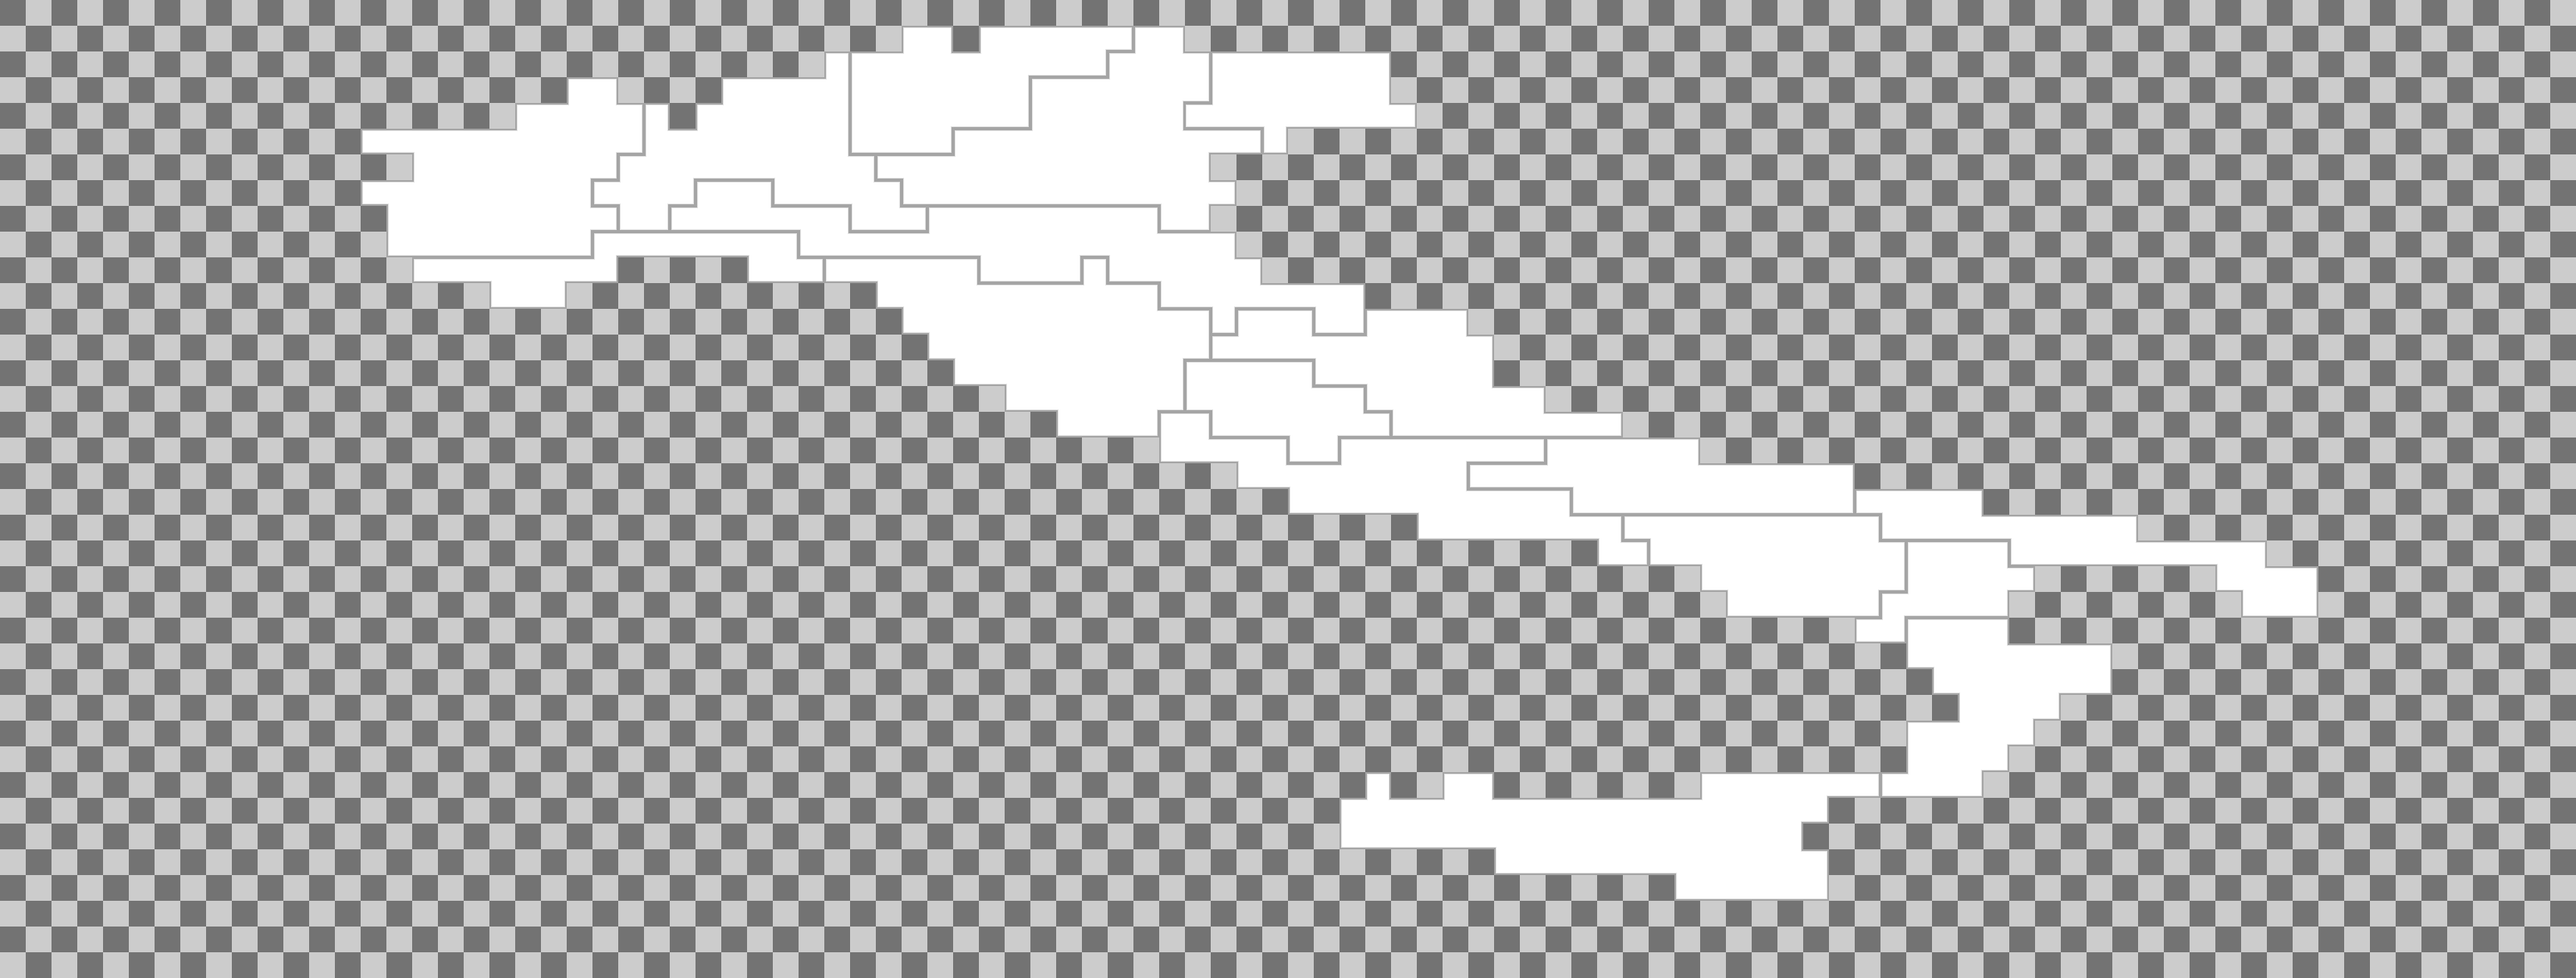
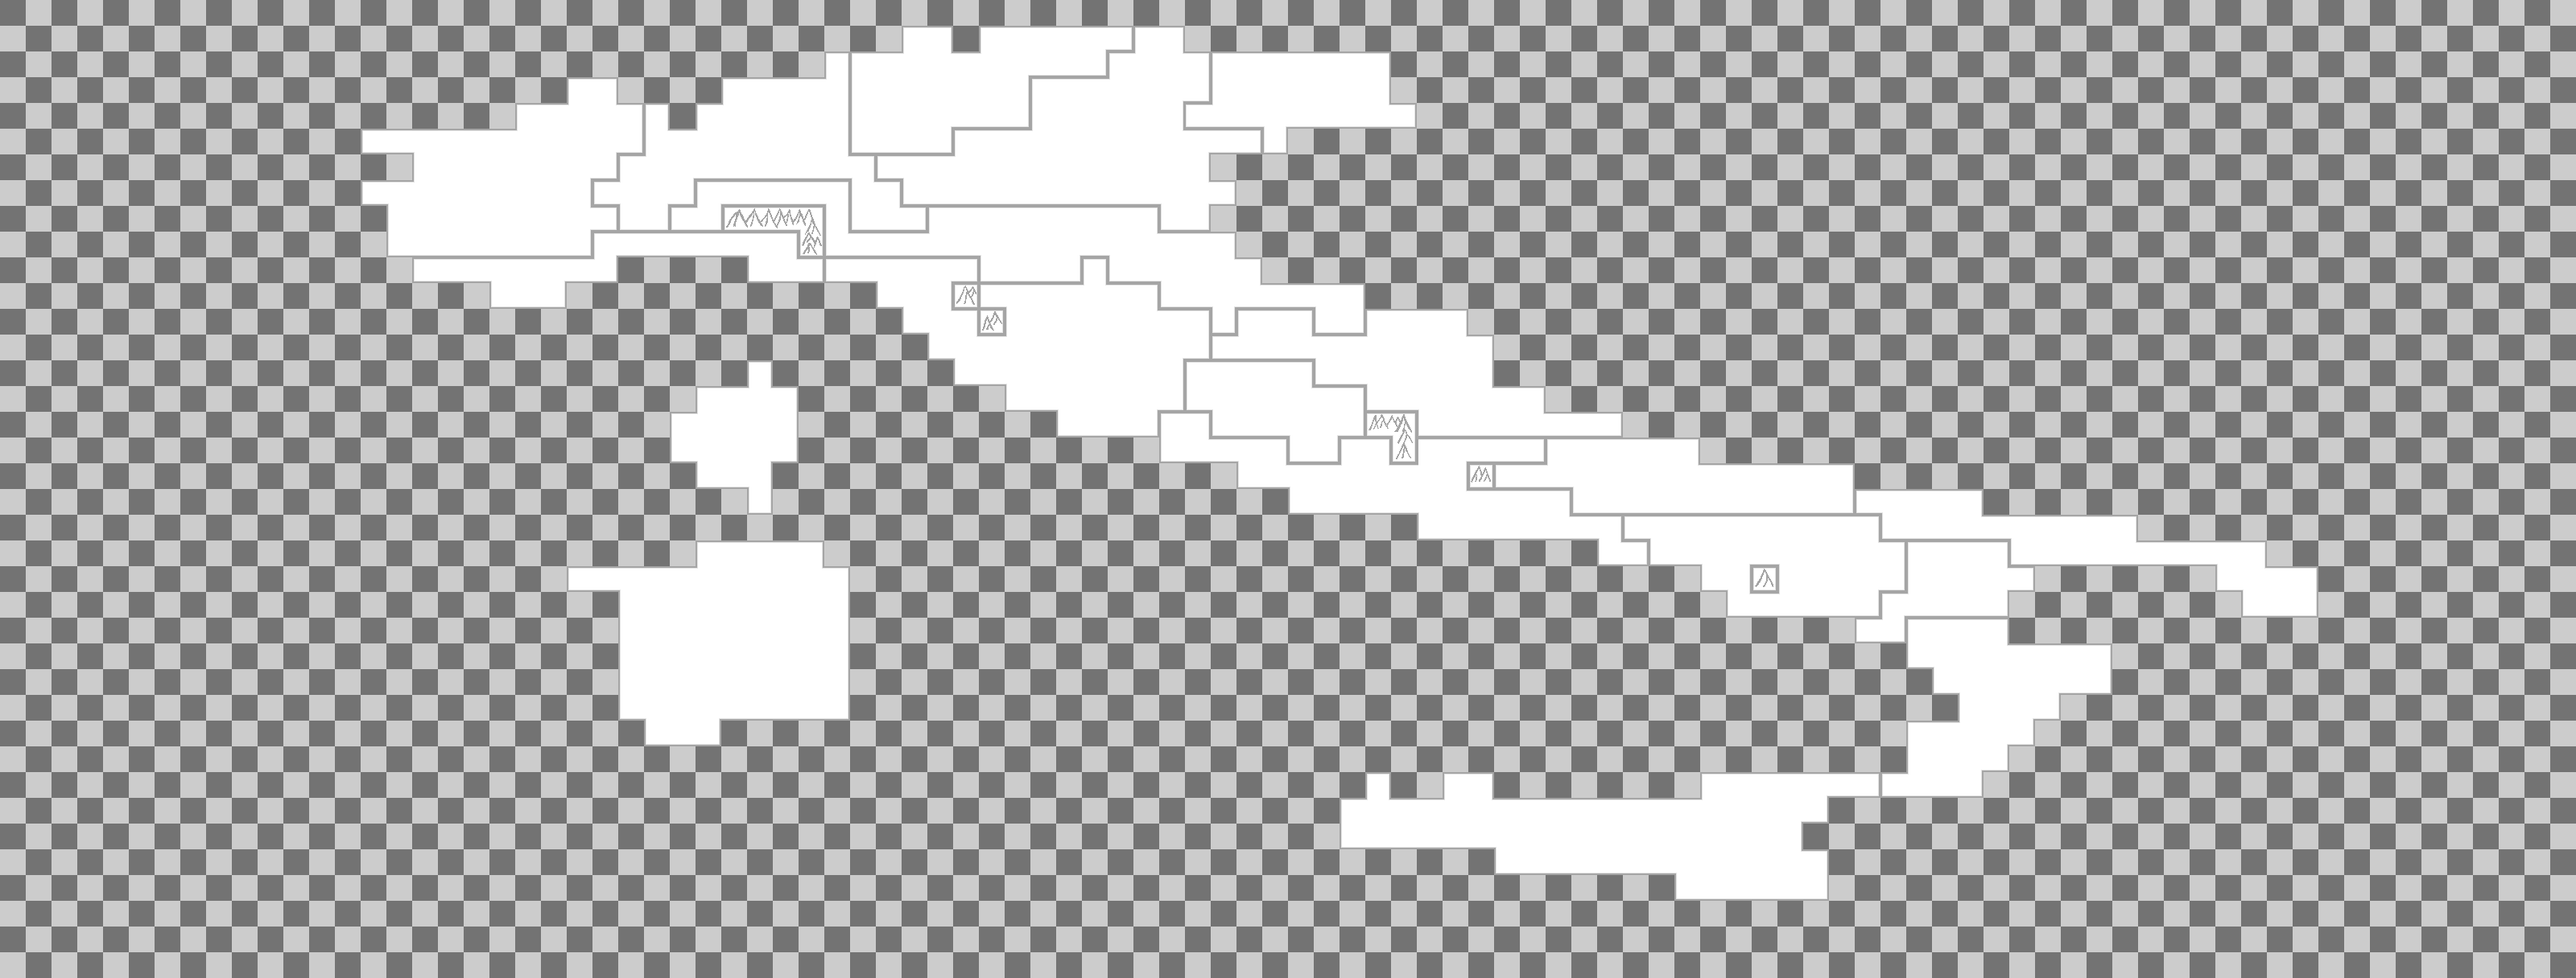
Added mountains and unreachable Corsica & Sardinia

diff --git a/DegreeProject/DegreeProject/Source/Game/Map/Map.cpp b/DegreeProject/DegreeProject/Source/Game/Map/Map.cpp
@@ -150,6 +150,14 @@ void Map::loadMap()
 
 					m_MapSquareData.push_back(data);
 				}
+				else if (character == '^')
+				{
+					m_MountainSquares.push_back({ x,y });
+				}
+				else if (character == 'O')
+				{
+					m_UnreachableLandSquares.push_back({ x,y });
+				}
 
 				x++;
 			}
@@ -202,6 +210,20 @@ void Map::updateRegions()
 
 void Map::render()
 {
+	m_Data.m_Shader.setUniform("u_Color", sf::Glsl::Vec4(m_MountainBaseColor));
+	m_Data.m_Shader.setUniform("u_OccupiedColor", sf::Glsl::Vec4(m_MountainAlternateColor));
+	m_Data.m_Shader.setUniform("u_Texture", m_Data.m_LandTexture);
+	m_Data.m_Shader.setUniform("u_Highlighted", false);
+
+	Window::getWindow()->draw(m_MountainVertexArray, m_Data.m_RenderStates);
+
+	m_Data.m_Shader.setUniform("u_Color", sf::Glsl::Vec4(m_UnreachableLandColor));
+	m_Data.m_Shader.setUniform("u_OccupiedColor", sf::Glsl::Vec4(m_UnreachableLandColor));
+	m_Data.m_Shader.setUniform("u_Texture", m_Data.m_LandTexture);
+	m_Data.m_Shader.setUniform("u_Highlighted", false);
+
+	Window::getWindow()->draw(m_UnreachableVertexArray, m_Data.m_RenderStates);
+
 	for (auto& region : m_Data.m_Regions)
 	{
 		m_Data.m_Shader.setUniform("u_Color", sf::Glsl::Vec4(region.m_HighlightColor));
@@ -252,6 +274,9 @@ void Map::clearRegionMapTiles()
 	{
 		region.m_MapSquares.clear();
 	}
+
+	m_MountainSquares.clear();
+	m_UnreachableLandSquares.clear();
 }
 
 void Map::createVertexArrays()
@@ -285,6 +310,60 @@ void Map::createVertexArrays()
 			region.m_VertexArray.append(v3);
 			region.m_VertexArray.append(v4);
 		}
+	}
+
+	m_MountainVertexArray.setPrimitiveType(sf::Triangles);
+
+	for (auto& square : m_MountainSquares)
+	{
+		sf::Vertex v1;
+		sf::Vertex v2;
+		sf::Vertex v3;
+		sf::Vertex v4;
+
+		v1.position = { (square.x * m_TileSize) - m_HalfTileSize + m_XOffset, (square.y * m_TileSize) - m_HalfTileSize + m_YOffset }; // Top left
+		v2.position = { (square.x * m_TileSize) + m_HalfTileSize + m_XOffset, (square.y * m_TileSize) - m_HalfTileSize + m_YOffset }; // Top right
+		v3.position = { (square.x * m_TileSize) + m_HalfTileSize + m_XOffset, (square.y * m_TileSize) + m_HalfTileSize + m_YOffset }; // Bottom right
+		v4.position = { (square.x * m_TileSize) - m_HalfTileSize + m_XOffset, (square.y * m_TileSize) + m_HalfTileSize + m_YOffset }; // Bottom Left
+
+		v1.texCoords = { (square.x * m_TileSize), (square.y * m_TileSize) };
+		v2.texCoords = { (square.x * m_TileSize) + m_TileSize, (square.y * m_TileSize) };
+		v3.texCoords = { (square.x * m_TileSize) + m_TileSize, (square.y * m_TileSize) + m_TileSize };
+		v4.texCoords = { (square.x * m_TileSize), (square.y * m_TileSize) + m_TileSize };
+
+		m_MountainVertexArray.append(v1);
+		m_MountainVertexArray.append(v2);
+		m_MountainVertexArray.append(v3);
+		m_MountainVertexArray.append(v1);
+		m_MountainVertexArray.append(v3);
+		m_MountainVertexArray.append(v4);
+	}
+
+	m_UnreachableVertexArray.setPrimitiveType(sf::Triangles);
+
+	for (auto& square : m_UnreachableLandSquares)
+	{
+		sf::Vertex v1;
+		sf::Vertex v2;
+		sf::Vertex v3;
+		sf::Vertex v4;
+
+		v1.position = { (square.x * m_TileSize) - m_HalfTileSize + m_XOffset, (square.y * m_TileSize) - m_HalfTileSize + m_YOffset }; // Top left
+		v2.position = { (square.x * m_TileSize) + m_HalfTileSize + m_XOffset, (square.y * m_TileSize) - m_HalfTileSize + m_YOffset }; // Top right
+		v3.position = { (square.x * m_TileSize) + m_HalfTileSize + m_XOffset, (square.y * m_TileSize) + m_HalfTileSize + m_YOffset }; // Bottom right
+		v4.position = { (square.x * m_TileSize) - m_HalfTileSize + m_XOffset, (square.y * m_TileSize) + m_HalfTileSize + m_YOffset }; // Bottom Left
+
+		v1.texCoords = { (square.x * m_TileSize), (square.y * m_TileSize) };
+		v2.texCoords = { (square.x * m_TileSize) + m_TileSize, (square.y * m_TileSize) };
+		v3.texCoords = { (square.x * m_TileSize) + m_TileSize, (square.y * m_TileSize) + m_TileSize };
+		v4.texCoords = { (square.x * m_TileSize), (square.y * m_TileSize) + m_TileSize };
+
+		m_UnreachableVertexArray.append(v1);
+		m_UnreachableVertexArray.append(v2);
+		m_UnreachableVertexArray.append(v3);
+		m_UnreachableVertexArray.append(v1);
+		m_UnreachableVertexArray.append(v3);
+		m_UnreachableVertexArray.append(v4);
 	}
 }
 

diff --git a/DegreeProject/DegreeProject/Source/Game/Map/Map.h b/DegreeProject/DegreeProject/Source/Game/Map/Map.h
@@ -132,5 +132,16 @@ struct Map
 
 private:
 	int getRegionPositionFromRegionId(const unsigned int id);
+
+	// Mountains
+	std::vector<Vector2DInt> m_MountainSquares;
+	sf::VertexArray m_MountainVertexArray;
+	sf::Color m_MountainBaseColor = sf::Color(80, 80, 80, 255);
+	sf::Color m_MountainAlternateColor = sf::Color(100, 100, 100, 255);
+
+	// Unreachable land
+	std::vector<Vector2DInt> m_UnreachableLandSquares;
+	sf::VertexArray m_UnreachableVertexArray;
+	sf::Color m_UnreachableLandColor = sf::Color(10, 20, 10, 255);
 };
 #pragma warning(pop)
